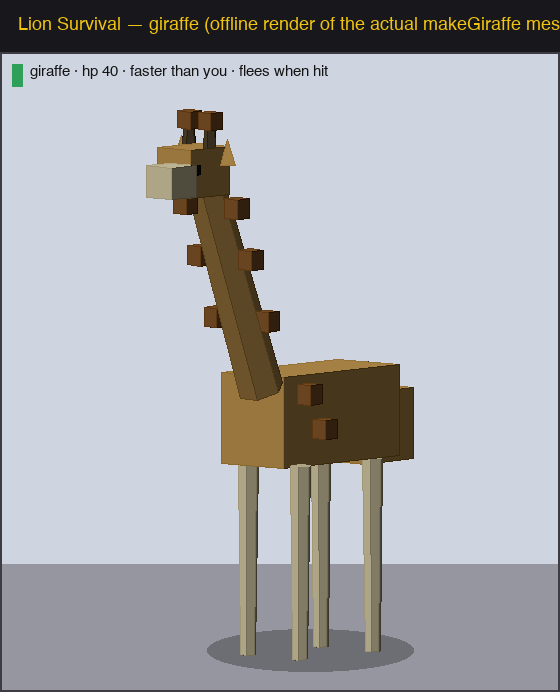
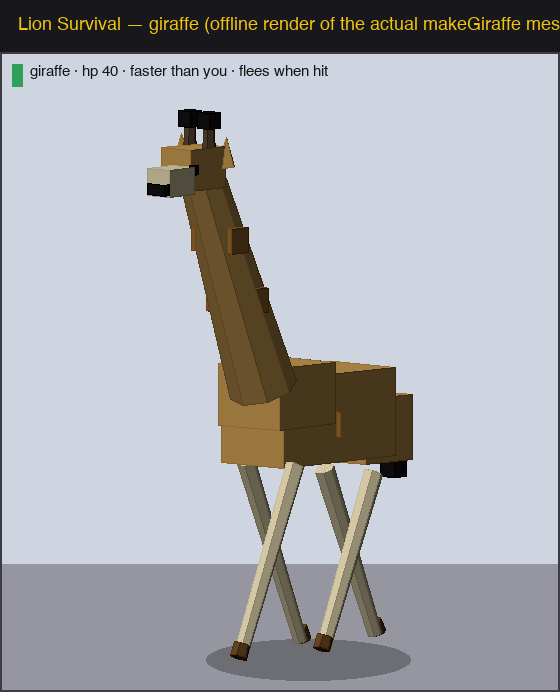
giraffe: nicer mesh + a real walk cycle
Look: reticulated giraffeTex() coat (replaces floating cube spots), a neck
mane, raised withers + dropped rump slope, tapered neck, ossicones with
knobs, nostril, hoofs.

Legs: rebuilt as hip-pivot legs (geometry hung below the joint) that SWING
from the hip — updatePrey branches the giraffe onto a pacing rotation gait
(amplitude scales with speed; near-still when it stops) instead of the
generic vertical bob.

Changed region(s): [[0.3643, 0.6676, 0.7589, 1.0], [0.2429, 0.1517, 0.7589, 0.6373]]

diff --git a/index.html b/index.html
@@ -1844,6 +1844,25 @@ function zebraTex(){
   const t=new THREE.CanvasTexture(cv); t.wrapS=t.wrapT=THREE.RepeatWrapping; return _zebraTex=t;
 }
 
+// Procedural giraffe coat — russet patches webbed by pale cream lines (reticulated).
+let _giraffeTex=null;
+function giraffeTex(){
+  if(_giraffeTex) return _giraffeTex;
+  const S=128, cv=document.createElement('canvas'); cv.width=cv.height=S;
+  const g=cv.getContext('2d');
+  g.fillStyle='#d8c49a'; g.fillRect(0,0,S,S);          // cream network
+  for(let yy=0; yy<5; yy++) for(let xx=0; xx<5; xx++){
+    const cx=xx*26+13+(Math.random()*8-4), cy=yy*26+13+(Math.random()*8-4);
+    const r=9+Math.random()*3;
+    g.fillStyle = Math.random()<0.5 ? '#9a6a32' : '#8a5a28';   // patch (slight tone variation)
+    g.beginPath();                                       // irregular polygon patch
+    for(let k=0;k<6;k++){ const a=k/6*Math.PI*2, rr=r*(0.7+Math.random()*0.5);
+      const px=cx+Math.cos(a)*rr, py=cy+Math.sin(a)*rr; k?g.lineTo(px,py):g.moveTo(px,py); }
+    g.closePath(); g.fill();
+  }
+  const t=new THREE.CanvasTexture(cv); t.wrapS=t.wrapT=THREE.RepeatWrapping; return _giraffeTex=t;
+}
+
 function addHorns(g, type, sc, hy, hz, col){
   const m=lmat(col);
   [-1,1].forEach(side=>{
@@ -1895,44 +1914,52 @@ function makeHerbivore(key){
 // (leg gait, flee, etc.) drives it like any other herbivore.
 function makeGiraffe(){
   const g=new THREE.Group();
-  const coat = lmat(jcol(0xc79a52,0.05));   // tan coat
+  const coat = new THREE.MeshLambertMaterial({map:giraffeTex()});  // reticulated patches
   const pale = lmat(jcol(0xe3d6b0,0.04));   // pale lower legs / muzzle
-  const spot = lmat(jcol(0x8a5a2a,0.05));   // patches
+  const mane = lmat(0x6b4a26);              // short neck mane
   const horn = lmat(0x5b4a32);
+  const knobM= lmat(0x2a2018);
   const dark = lmat(0x141014);
-  const legLen=1.7, bw=0.72, bh=0.8, bl=1.55, bodyY=legLen+bh*0.5;
-  // body + sloped hindquarters (giraffe back drops toward the rear)
+  const legLen=1.8, bw=0.72, bh=0.78, bl=1.5, bodyY=legLen+bh*0.5;
+  // body + sloped withers/hindquarters (the giraffe's high shoulders → low rump)
   const body=new THREE.Mesh(new THREE.BoxGeometry(bw,bh,bl), coat); body.position.y=bodyY; body.castShadow=true; g.add(body);
-  const rump=new THREE.Mesh(new THREE.BoxGeometry(bw*0.96,bh*0.78,bl*0.42), coat); rump.position.set(0,bodyY-0.13,-bl*0.42); g.add(rump);
-  // long neck — up and slightly forward
-  const neckLen=2.1, th=0.38, c=Math.cos(th), sn=Math.sin(th);
-  const nbY=bodyY+bh*0.32, nbZ=bl*0.42;
-  const neck=new THREE.Mesh(new THREE.BoxGeometry(0.34,neckLen,0.40), coat);
+  const wither=new THREE.Mesh(new THREE.BoxGeometry(bw*0.98,bh*0.7,bl*0.5), coat); wither.position.set(0,bodyY+0.22,bl*0.28); g.add(wither);     // raised shoulders
+  const rump=new THREE.Mesh(new THREE.BoxGeometry(bw*0.94,bh*0.74,bl*0.42), coat); rump.position.set(0,bodyY-0.16,-bl*0.46); g.add(rump);        // dropped rump
+  // long neck — up and slightly forward, tapering to the head
+  const neckLen=2.15, th=0.40, c=Math.cos(th), sn=Math.sin(th);
+  const nbY=bodyY+bh*0.34, nbZ=bl*0.40;
+  const neckGeo=new THREE.CylinderGeometry(0.20,0.30,neckLen,8);   // tapered (thinner at the top)
+  const neck=new THREE.Mesh(neckGeo, coat);
   neck.position.set(0, nbY+c*neckLen*0.5, nbZ+sn*neckLen*0.5); neck.rotation.x=th; neck.castShadow=true; g.add(neck);
+  // short dark mane running up the back of the neck
+  const maneM=new THREE.Mesh(new THREE.BoxGeometry(0.10,neckLen*0.96,0.16), mane);
+  maneM.position.set(0, nbY+c*neckLen*0.5+0.02, nbZ+sn*neckLen*0.5-0.16); maneM.rotation.x=th; g.add(maneM);
   const tipY=nbY+c*neckLen, tipZ=nbZ+sn*neckLen;
-  // head, muzzle, ossicones, ears, eyes
-  const head=new THREE.Mesh(new THREE.BoxGeometry(0.38,0.42,0.52), coat); head.position.set(0,tipY+0.05,tipZ+0.12); head.castShadow=true; g.add(head);
-  const muz=new THREE.Mesh(new THREE.BoxGeometry(0.30,0.28,0.32), pale); muz.position.set(0,tipY-0.02,tipZ+0.42); g.add(muz);
+  // head: angled crown + tapered muzzle, ossicones, ears, eyes
+  const head=new THREE.Mesh(new THREE.BoxGeometry(0.34,0.36,0.46), coat); head.position.set(0,tipY+0.06,tipZ+0.10); head.rotation.x=0.25; head.castShadow=true; g.add(head);
+  const muz=new THREE.Mesh(new THREE.BoxGeometry(0.26,0.24,0.34), pale); muz.position.set(0,tipY-0.04,tipZ+0.40); g.add(muz);
+  const nostril=new THREE.Mesh(new THREE.BoxGeometry(0.20,0.10,0.06), dark); nostril.position.set(0,tipY-0.10,tipZ+0.57); g.add(nostril);
   [-1,1].forEach(d=>{
-    const oss=new THREE.Mesh(new THREE.CylinderGeometry(0.05,0.06,0.26,5), horn); oss.position.set(d*0.12,tipY+0.34,tipZ+0.04); g.add(oss);
-    const knob=new THREE.Mesh(new THREE.SphereGeometry(0.08,6,5), spot); knob.position.set(d*0.12,tipY+0.49,tipZ+0.04); g.add(knob);
-    const ear=new THREE.Mesh(new THREE.ConeGeometry(0.09,0.22,4), coat); ear.position.set(d*0.27,tipY+0.22,tipZ-0.02); ear.rotation.z=d*0.7; g.add(ear);
-    const eye=new THREE.Mesh(new THREE.BoxGeometry(0.06,0.08,0.05), dark); eye.position.set(d*0.16,tipY+0.08,tipZ+0.27); g.add(eye);
+    const oss=new THREE.Mesh(new THREE.CylinderGeometry(0.045,0.06,0.24,6), horn); oss.position.set(d*0.11,tipY+0.34,tipZ+0.02); g.add(oss);
+    const knob=new THREE.Mesh(new THREE.SphereGeometry(0.075,7,6), knobM); knob.position.set(d*0.11,tipY+0.48,tipZ+0.02); g.add(knob);
+    const ear=new THREE.Mesh(new THREE.ConeGeometry(0.085,0.26,5), coat); ear.position.set(d*0.26,tipY+0.20,tipZ-0.04); ear.rotation.z=d*0.8; ear.rotation.x=-0.2; g.add(ear);
+    const eye=new THREE.Mesh(new THREE.BoxGeometry(0.06,0.08,0.05), dark); eye.position.set(d*0.15,tipY+0.06,tipZ+0.26); g.add(eye);
   });
-  // long legs (pale), splayed at the corners
-  const legs=[]; const lg=new THREE.CylinderGeometry(0.09,0.07,legLen,6);
-  [[-bw*0.42,0.62],[bw*0.42,0.62],[-bw*0.42,-0.62],[bw*0.42,-0.62]].forEach(([lx,lzf])=>{
-    const leg=new THREE.Mesh(lg, pale); leg.position.set(lx, legLen/2, lzf*bl*0.5); leg.castShadow=true; g.add(leg); legs.push(leg);
-  });
+  // long legs on hip pivots so they SWING from the top (geometry hung below origin).
+  // Splayed slightly; front legs longer than back (the giraffe stance).
+  const legs=[];
+  const mkLeg=(lx,lz,len)=>{
+    const geo=new THREE.CylinderGeometry(0.085,0.06,len,6); geo.translate(0,-len/2,0);  // pivot at the hip
+    const leg=new THREE.Mesh(geo, pale); leg.position.set(lx, len, lz); leg.castShadow=true; g.add(leg); legs.push(leg);
+    const hoof=new THREE.Mesh(new THREE.CylinderGeometry(0.07,0.08,0.12,6), mane); hoof.position.set(0,-len+0.06,0); leg.add(hoof);  // dark hoof, swings with the leg
+  };
+  mkLeg(-bw*0.40, bl*0.34, legLen);        // front legs (taller)
+  mkLeg( bw*0.40, bl*0.34, legLen);
+  mkLeg(-bw*0.40,-bl*0.36, legLen*0.92);   // back legs (a touch shorter)
+  mkLeg( bw*0.40,-bl*0.36, legLen*0.92);
   // tail with a dark tuft
-  const tail=new THREE.Mesh(new THREE.CylinderGeometry(0.03,0.03,0.7,4), coat); tail.position.set(0,bodyY-0.1,-bl*0.5-0.05); tail.rotation.x=0.5; g.add(tail);
-  const tuft=new THREE.Mesh(new THREE.SphereGeometry(0.07,5,4), dark); tuft.position.set(0,bodyY-0.42,-bl*0.5-0.32); g.add(tuft);
-  // patches — the spotted coat, scattered down both flanks and the neck
-  const pts=[[bodyY+0.22,0.35],[bodyY+0.04,-0.05],[bodyY+0.24,-0.45],[bodyY-0.1,0.15],
-             [nbY+c*0.7,nbZ+sn*0.7],[nbY+c*1.3,nbZ+sn*1.3],[nbY+c*1.8,nbZ+sn*1.8]];
-  pts.forEach(([py,pz])=>{ [-1,1].forEach(d=>{
-    const p=new THREE.Mesh(new THREE.BoxGeometry(0.15,0.17,0.15), spot); p.position.set(d*0.30, py, pz); g.add(p);
-  }); });
+  const tail=new THREE.Mesh(new THREE.CylinderGeometry(0.03,0.03,0.8,4), pale); tail.position.set(0,bodyY-0.1,-bl*0.5-0.05); tail.rotation.x=0.6; g.add(tail);
+  const tuft=new THREE.Mesh(new THREE.SphereGeometry(0.08,6,5), dark); tuft.position.set(0,bodyY-0.55,-bl*0.5-0.38); g.add(tuft);
   g.children.forEach(c2=>{ if(c2.isMesh) c2.userData.origMat=c2.material; });
   return { group:g, legs, bodyY, legLen };
 }
@@ -1990,7 +2017,14 @@ function updatePrey(dt){
     const s=SPECIES[P.species];
     P.legPhase += dt*(3+(P._lastSpeed||0)*0.9);
     const legBase=P.legLen/2;
-    P.legs.forEach((leg,i)=>{ leg.position.y = legBase + Math.sin(P.legPhase+i*Math.PI/2)*0.09*s.size*(P.state==='flee'?1.5:0.5); });
+    if(P.species==='giraffe'){
+      // hip-pivot legs SWING (a proper walk) — pacing gait (same-side legs together),
+      // amplitude scales with how fast it's actually moving so it's still when it stands.
+      const moving=(P._lastSpeed||0)>0.3, amp = moving ? (P.state==='flee'?0.6:0.32) : 0.03;
+      P.legs.forEach((leg,i)=>{ const off=(i===1||i===3)?Math.PI:0; leg.rotation.x = Math.sin(P.legPhase+off)*amp; });
+    } else {
+      P.legs.forEach((leg,i)=>{ leg.position.y = legBase + Math.sin(P.legPhase+i*Math.PI/2)*0.09*s.size*(P.state==='flee'?1.5:0.5); });
+    }
     if(P.flashTimer>0){ P.flashTimer-=dt; const fl=P.flashTimer>0; P.mesh.children.forEach(c=>{ if(c.isMesh) c.material=fl?FLASH_MAT:c.userData.origMat; }); }
 
     // Stunned by a thrown rock — frozen in place for a moment.

diff --git a/dossiers/render_giraffe.py b/dossiers/render_giraffe.py
@@ -35,29 +35,43 @@ def cyl(rt,rb,h,seg,col,cx,cy,cz,rx=0.0):
         f.append(([(0,h/2,0),t0,t1],(0,1,0),col));f.append(([(0,-h/2,0),b1,b0],(0,-1,0),col))
     return _pl(f,rx,cx,cy,cz)
 
-COAT,PALE,SPOT,HORN,DARK=0xc79a52,0xe3d6b0,0x8a5a2a,0x5b4a32,0x141014
+COAT,PALE,SPOT,HORN,DARK,MANE=0xc79a52,0xe3d6b0,0x9a6a32,0x5b4a32,0x141014,0x6b4a26
 def giraffe():
     f=[]
-    legLen=1.7;bw=0.72;bh=0.8;bl=1.55;bodyY=legLen+bh*0.5
+    legLen=1.8;bw=0.72;bh=0.78;bl=1.5;bodyY=legLen+bh*0.5
     f+=box(bw,bh,bl,COAT,0,bodyY,0)
-    f+=box(bw*0.96,bh*0.78,bl*0.42,COAT,0,bodyY-0.13,-bl*0.42)
-    neckLen=2.1;th=0.38;c=math.cos(th);sn=math.sin(th);nbY=bodyY+bh*0.32;nbZ=bl*0.42
-    f+=cyl(0.17,0.20,neckLen,6,COAT, 0,nbY+c*neckLen*0.5,nbZ+sn*neckLen*0.5, th)  # neck (box->cyl approx, same dims)
+    f+=box(bw*0.98,bh*0.7,bl*0.5,COAT,0,bodyY+0.22,bl*0.28)        # raised withers
+    f+=box(bw*0.94,bh*0.74,bl*0.42,COAT,0,bodyY-0.16,-bl*0.46)     # dropped rump
+    neckLen=2.15;th=0.40;c=math.cos(th);sn=math.sin(th);nbY=bodyY+bh*0.34;nbZ=bl*0.40
+    f+=cyl(0.20,0.30,neckLen,8,COAT, 0,nbY+c*neckLen*0.5,nbZ+sn*neckLen*0.5, th)   # tapered neck
+    f+=cyl(0.05,0.06,neckLen*0.9,5,MANE, 0,nbY+c*neckLen*0.5+0.02,nbZ+sn*neckLen*0.5-0.18, th)  # mane
     tipY=nbY+c*neckLen;tipZ=nbZ+sn*neckLen
-    f+=box(0.38,0.42,0.52,COAT,0,tipY+0.05,tipZ+0.12)
-    f+=box(0.30,0.28,0.32,PALE,0,tipY-0.02,tipZ+0.42)
+    f+=box(0.34,0.36,0.46,COAT,0,tipY+0.06,tipZ+0.10)
+    f+=box(0.26,0.24,0.34,PALE,0,tipY-0.04,tipZ+0.40)
+    f+=box(0.20,0.10,0.06,DARK,0,tipY-0.10,tipZ+0.57)
     for d in(-1,1):
-        f+=cyl(0.05,0.06,0.26,5,HORN,d*0.12,tipY+0.34,tipZ+0.04)
-        f+=box(0.15,0.15,0.15,SPOT,d*0.12,tipY+0.49,tipZ+0.04)
-        f+=cone(0.09,0.22,4,COAT,d*0.27,tipY+0.22,tipZ-0.02,0)
-        f+=box(0.06,0.08,0.05,DARK,d*0.16,tipY+0.08,tipZ+0.27)
-    lg=[(-bw*0.42,0.62),(bw*0.42,0.62),(-bw*0.42,-0.62),(bw*0.42,-0.62)]
-    for lx,lzf in lg: f+=cyl(0.09,0.07,legLen,6,PALE,lx,legLen/2,lzf*bl*0.5)
-    f+=cyl(0.03,0.03,0.7,4,COAT,0,bodyY-0.1,-bl*0.5-0.05,0.5)
-    pts=[(bodyY+0.22,0.35),(bodyY+0.04,-0.05),(bodyY+0.24,-0.45),(bodyY-0.1,0.15),
-         (nbY+c*0.7,nbZ+sn*0.7),(nbY+c*1.3,nbZ+sn*1.3),(nbY+c*1.8,nbZ+sn*1.8)]
-    for py,pz in pts:
-        for d in(-1,1): f+=box(0.15,0.17,0.15,SPOT,d*0.30,py,pz)
+        f+=cyl(0.045,0.06,0.24,6,HORN,d*0.11,tipY+0.34,tipZ+0.02)
+        f+=box(0.14,0.14,0.14,DARK,d*0.11,tipY+0.48,tipZ+0.02)
+        f+=cone(0.085,0.26,5,COAT,d*0.26,tipY+0.20,tipZ-0.04,0)
+        f+=box(0.06,0.08,0.05,DARK,d*0.15,tipY+0.06,tipZ+0.26)
+    # legs posed mid-stride (pace: same-side legs together) — hip-pivot swing
+    def leg(lx,lz,ln,a):
+        cx=lx; cy=ln+(-math.cos(a))*ln/2; cz=lz+(-math.sin(a))*ln/2
+        out=cyl(0.085,0.06,ln,6,PALE,cx,cy,cz,a)
+        hx=lx; hy=ln+(-math.cos(a))*ln; hz=lz+(-math.sin(a))*ln
+        out+=cyl(0.07,0.08,0.12,6,MANE,hx,hy+0.06,hz,a)
+        return out
+    f+=leg(-bw*0.40, bl*0.34, legLen,      0.42)   # left side forward...
+    f+=leg(-bw*0.40,-bl*0.36, legLen*0.92, 0.42)
+    f+=leg( bw*0.40, bl*0.34, legLen,     -0.42)   # ...right side back
+    f+=leg( bw*0.40,-bl*0.36, legLen*0.92,-0.42)
+    f+=cyl(0.03,0.03,0.8,4,PALE,0,bodyY-0.1,-bl*0.5-0.05,0.6)      # tail
+    f+=box(0.16,0.16,0.16,DARK,0,bodyY-0.55,-bl*0.5-0.38)          # tuft
+    # a few flush coat patches to hint the reticulated texture
+    pts=[(bodyY+0.18,0.3,bw*0.5),(bodyY-0.06,-0.1,bw*0.5),(bodyY+0.14,-0.5,bw*0.48),
+         (nbY+c*0.9,nbZ+sn*0.9,0.24),(nbY+c*1.5,nbZ+sn*1.5,0.21)]
+    for py,pz,px in pts:
+        for d in(-1,1): f+=box(0.05,0.22,0.22,SPOT,d*px,py,pz)
     return f
 
 YAW,PITCH=-0.72,0.10;LIGHT=norm((-0.4,0.7,0.6))

diff --git a/CONTEXT.md b/CONTEXT.md
@@ -178,7 +178,9 @@ prey graze in herds → flee any predator within species flee-dist → lions hun
 can **hunt ahead of the pride** (sneak+pounce, the stealthy play) or **scavenge lion kills**
 (faster but the guarding pride attacks). Player hunger must be topped up by eating; lions
 **cannot** be eaten. Per-species params live in the `SPECIES` table. **7 species** now — the 6 above
-plus the **giraffe** (`SPECIES.giraffe`, `custom:'giraffe'` → dedicated tall `makeGiraffe()` mesh; hp 40
+plus the **giraffe** (`SPECIES.giraffe`, `custom:'giraffe'` → dedicated tall `makeGiraffe()` mesh —
+reticulated `giraffeTex()` coat, mane, withers/rump slope, ossicones, **hip-pivot legs that SWING**
+(a pacing walk, branched in `updatePrey`'s leg animation); hp 40
 ≈ a lion, speed 18 so it **outruns even a sprinting player** (16), bolts when hit or threatened like any
 prey, and takes **3 spears** to down (kudu 2, other prey 1 — sized in the `updateThrownRocks` prey
 branch). Spawns in the herd plan.